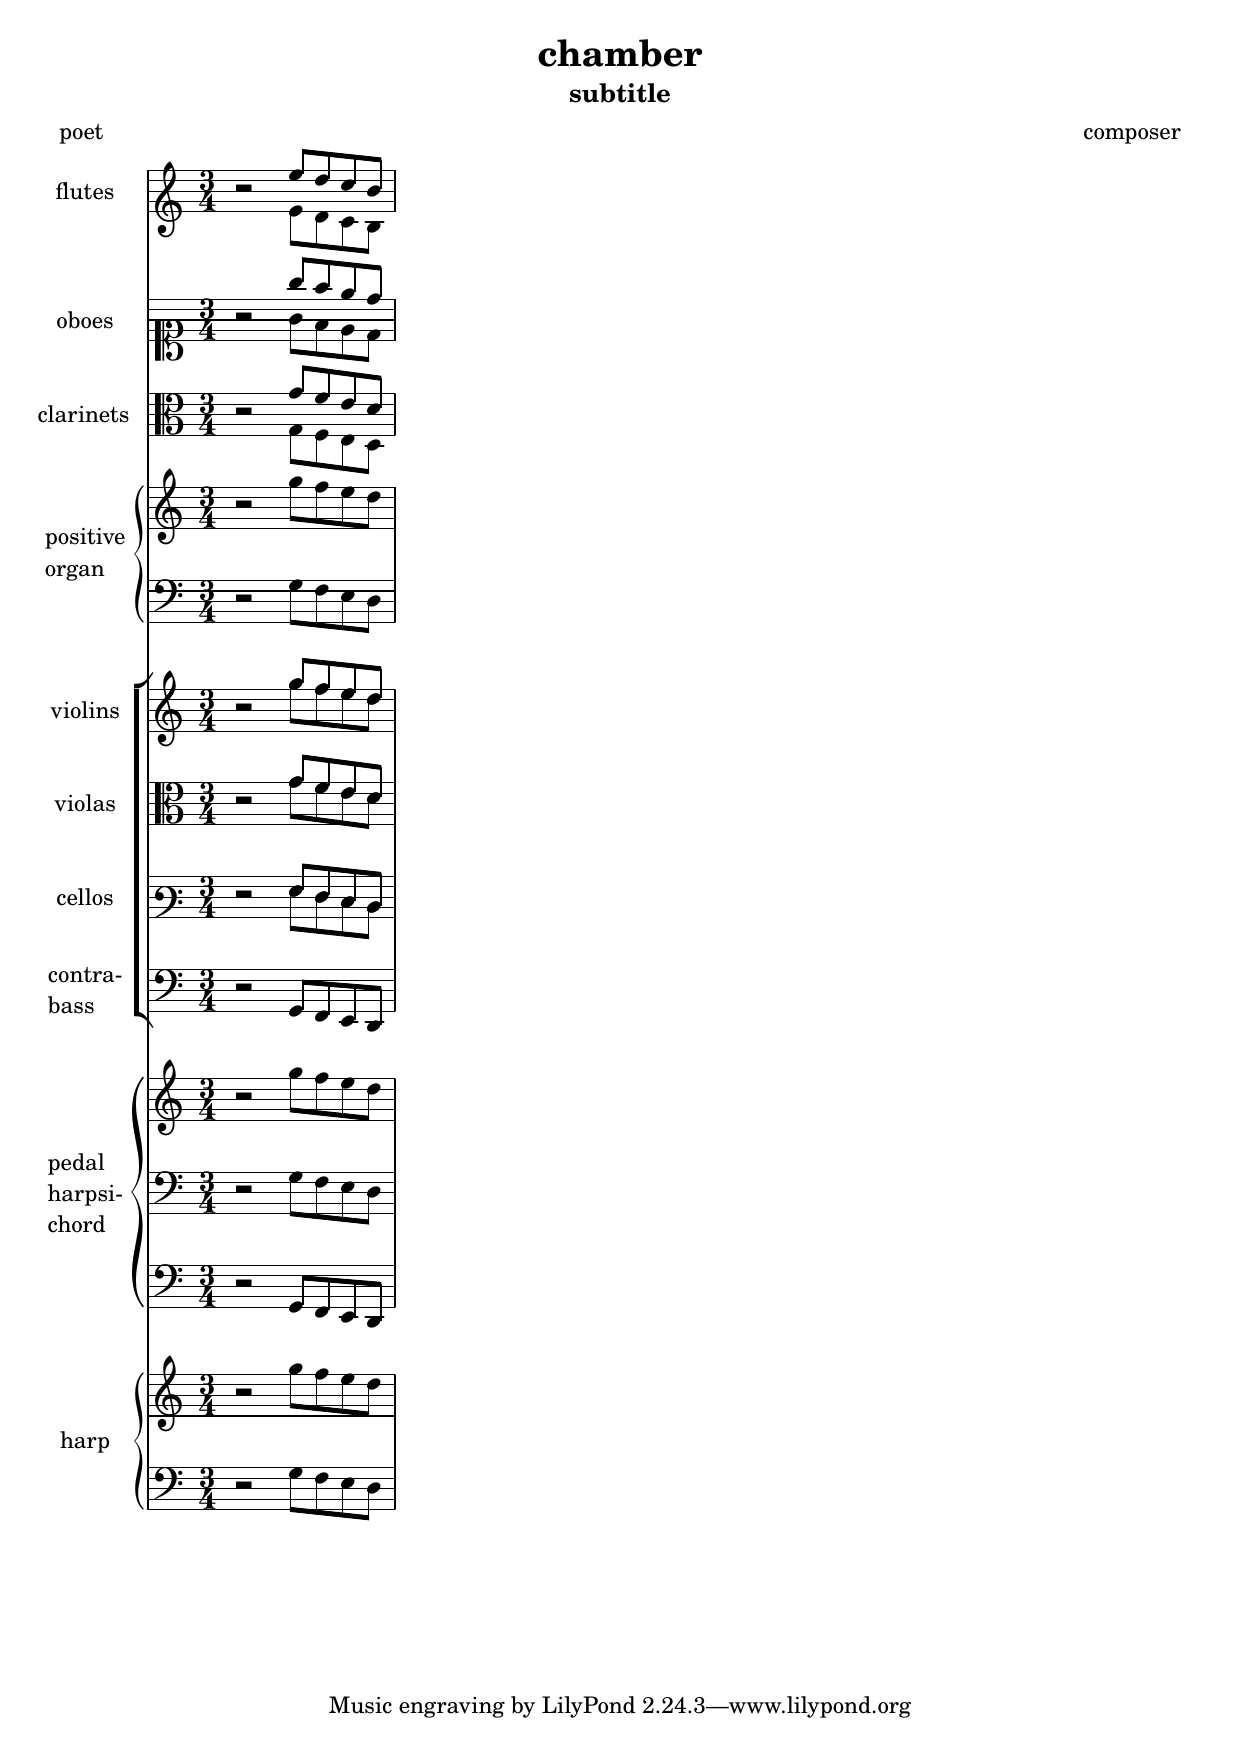
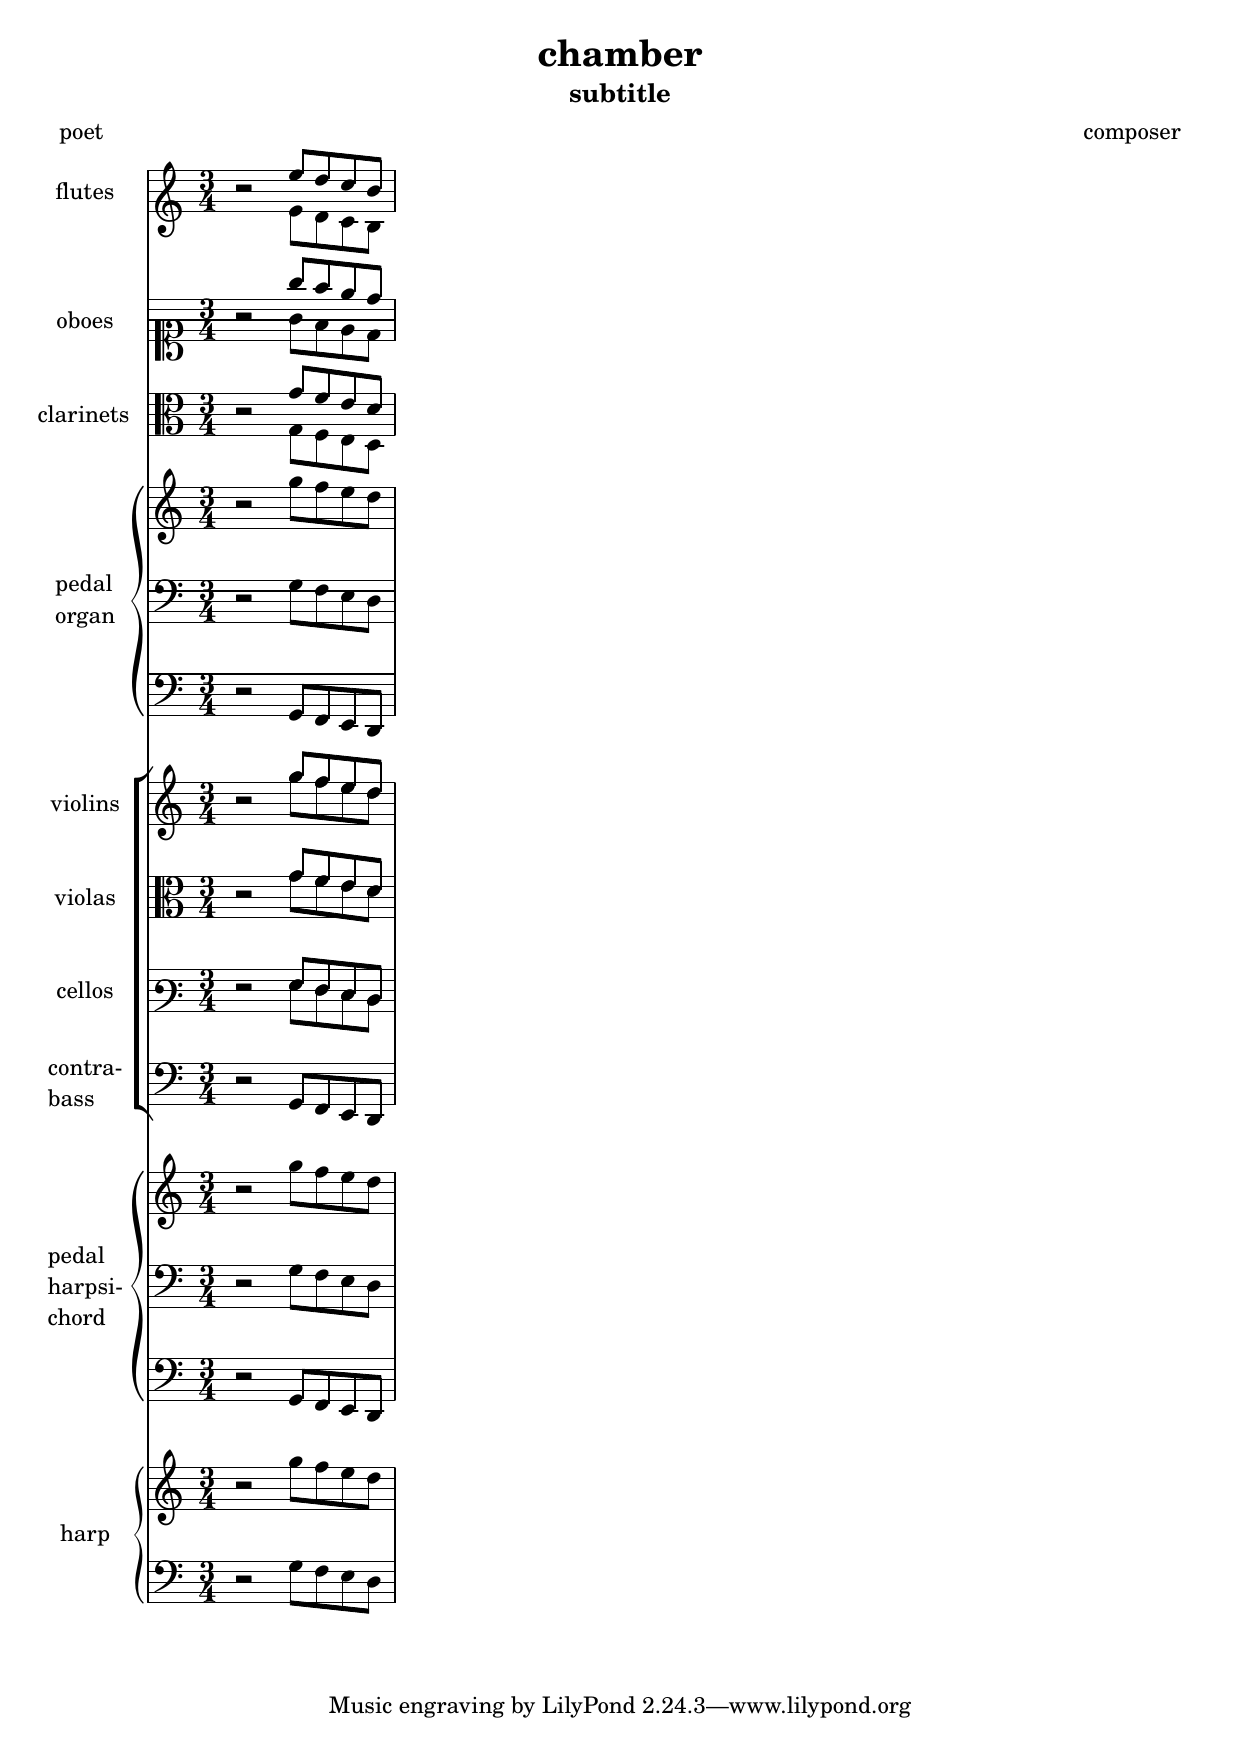
lilypond

Changed region(s): [[0.0306, 0.2771, 0.3368, 0.9236], [0.0612, 0.8005, 0.0919, 0.8312], [0.0612, 0.4926, 0.0919, 0.5234]]

diff --git a/musica/template/meta.html b/musica/template/meta.html
@@ -3,7 +3,7 @@
 "http://www.w3.org/TR/xhtml1/DTD/xhtml1-strict.dtd">
 <html xmlns="http://www.w3.org/1999/xhtml" lang="en" xml:lang="en">
 <head>
-<!-- 2024-02-27 mar 10:10 -->
+<!-- 2024-02-27 mar 18:11 -->
 <meta http-equiv="Content-Type" content="text/html;charset=utf-8" />
 <meta name="viewport" content="width=device-width, initial-scale=1" />
 <title>Eclats de vers : Opus : Musica : template</title>
@@ -205,20 +205,20 @@
 <h2>Table of Contents</h2>
 <div id="text-table-of-contents" role="doc-toc">
 <ul>
-<li><a href="#orgb4e3526">1. Méta-orchestre</a></li>
+<li><a href="#orgc9c1fb6">1. Méta-orchestre</a></li>
 </ul>
 </div>
 </div>
 
-<div id="outline-container-orgb4e3526" class="outline-2">
-<h2 id="orgb4e3526"><span class="section-number-2">1.</span> Méta-orchestre</h2>
+<div id="outline-container-orgc9c1fb6" class="outline-2">
+<h2 id="orgc9c1fb6"><span class="section-number-2">1.</span> Méta-orchestre</h2>
 <div class="outline-text-2" id="text-1">
 <p>
 Le résultat :
 </p>
 
 
-<div id="orge2254ed" class="figure">
+<div id="org47087a0" class="figure">
 <p><img src="../../image/musica/template/meta.png" alt="meta.png" />
 </p>
 </div>
@@ -2945,8 +2945,8 @@ groupGuitarTabs = \new StaffGroup
       %\groupBrassQuartet
       %\groupBrassQuintet
       % wind keyboards {{{4
-      \groupPositiveOrgan
-      %\groupPedalOrgan
+      %\groupPositiveOrgan
+      \groupPedalOrgan
       %\groupAccordion
       % strings {{{3
       % bowed strings {{{4
@@ -3000,7 +3000,7 @@ groupGuitarTabs = \new StaffGroup
 </div>
 <div id="postamble" class="status">
 <p class="author">Author: chimay</p>
-<p class="date">Created: 2024-02-27 mar 10:10</p>
+<p class="date">Created: 2024-02-27 mar 18:11</p>
 <p class="validation"><a href="https://validator.w3.org/check?uri=referer">Validate</a></p>
 </div>
 </body>

diff --git a/musica/template/chamber.html b/musica/template/chamber.html
@@ -3,7 +3,7 @@
 "http://www.w3.org/TR/xhtml1/DTD/xhtml1-strict.dtd">
 <html xmlns="http://www.w3.org/1999/xhtml" lang="en" xml:lang="en">
 <head>
-<!-- 2024-02-27 mar 10:10 -->
+<!-- 2024-02-27 mar 18:11 -->
 <meta http-equiv="Content-Type" content="text/html;charset=utf-8" />
 <meta name="viewport" content="width=device-width, initial-scale=1" />
 <title>Eclats de vers : Opus : Musica : template</title>
@@ -205,20 +205,20 @@
 <h2>Table of Contents</h2>
 <div id="text-table-of-contents" role="doc-toc">
 <ul>
-<li><a href="#orgcc7b921">1. Chambre</a></li>
+<li><a href="#org1653581">1. Chambre</a></li>
 </ul>
 </div>
 </div>
 
-<div id="outline-container-orgcc7b921" class="outline-2">
-<h2 id="orgcc7b921"><span class="section-number-2">1.</span> Chambre</h2>
+<div id="outline-container-org1653581" class="outline-2">
+<h2 id="org1653581"><span class="section-number-2">1.</span> Chambre</h2>
 <div class="outline-text-2" id="text-1">
 <p>
 Le résultat :
 </p>
 
 
-<div id="orgac19197" class="figure">
+<div id="orgbc6b596" class="figure">
 <p><img src="../../image/musica/template/chamber.png" alt="chamber.png" />
 </p>
 </div>
@@ -2945,8 +2945,8 @@ groupGuitarTabs = \new StaffGroup
       %\groupBrassQuartet
       %\groupBrassQuintet
       % wind keyboards {{{4
-      \groupPositiveOrgan
-      %\groupPedalOrgan
+      %\groupPositiveOrgan
+      \groupPedalOrgan
       %\groupAccordion
       % strings {{{3
       % bowed strings {{{4
@@ -3000,7 +3000,7 @@ groupGuitarTabs = \new StaffGroup
 </div>
 <div id="postamble" class="status">
 <p class="author">Author: chimay</p>
-<p class="date">Created: 2024-02-27 mar 10:10</p>
+<p class="date">Created: 2024-02-27 mar 18:11</p>
 <p class="validation"><a href="https://validator.w3.org/check?uri=referer">Validate</a></p>
 </div>
 </body>
